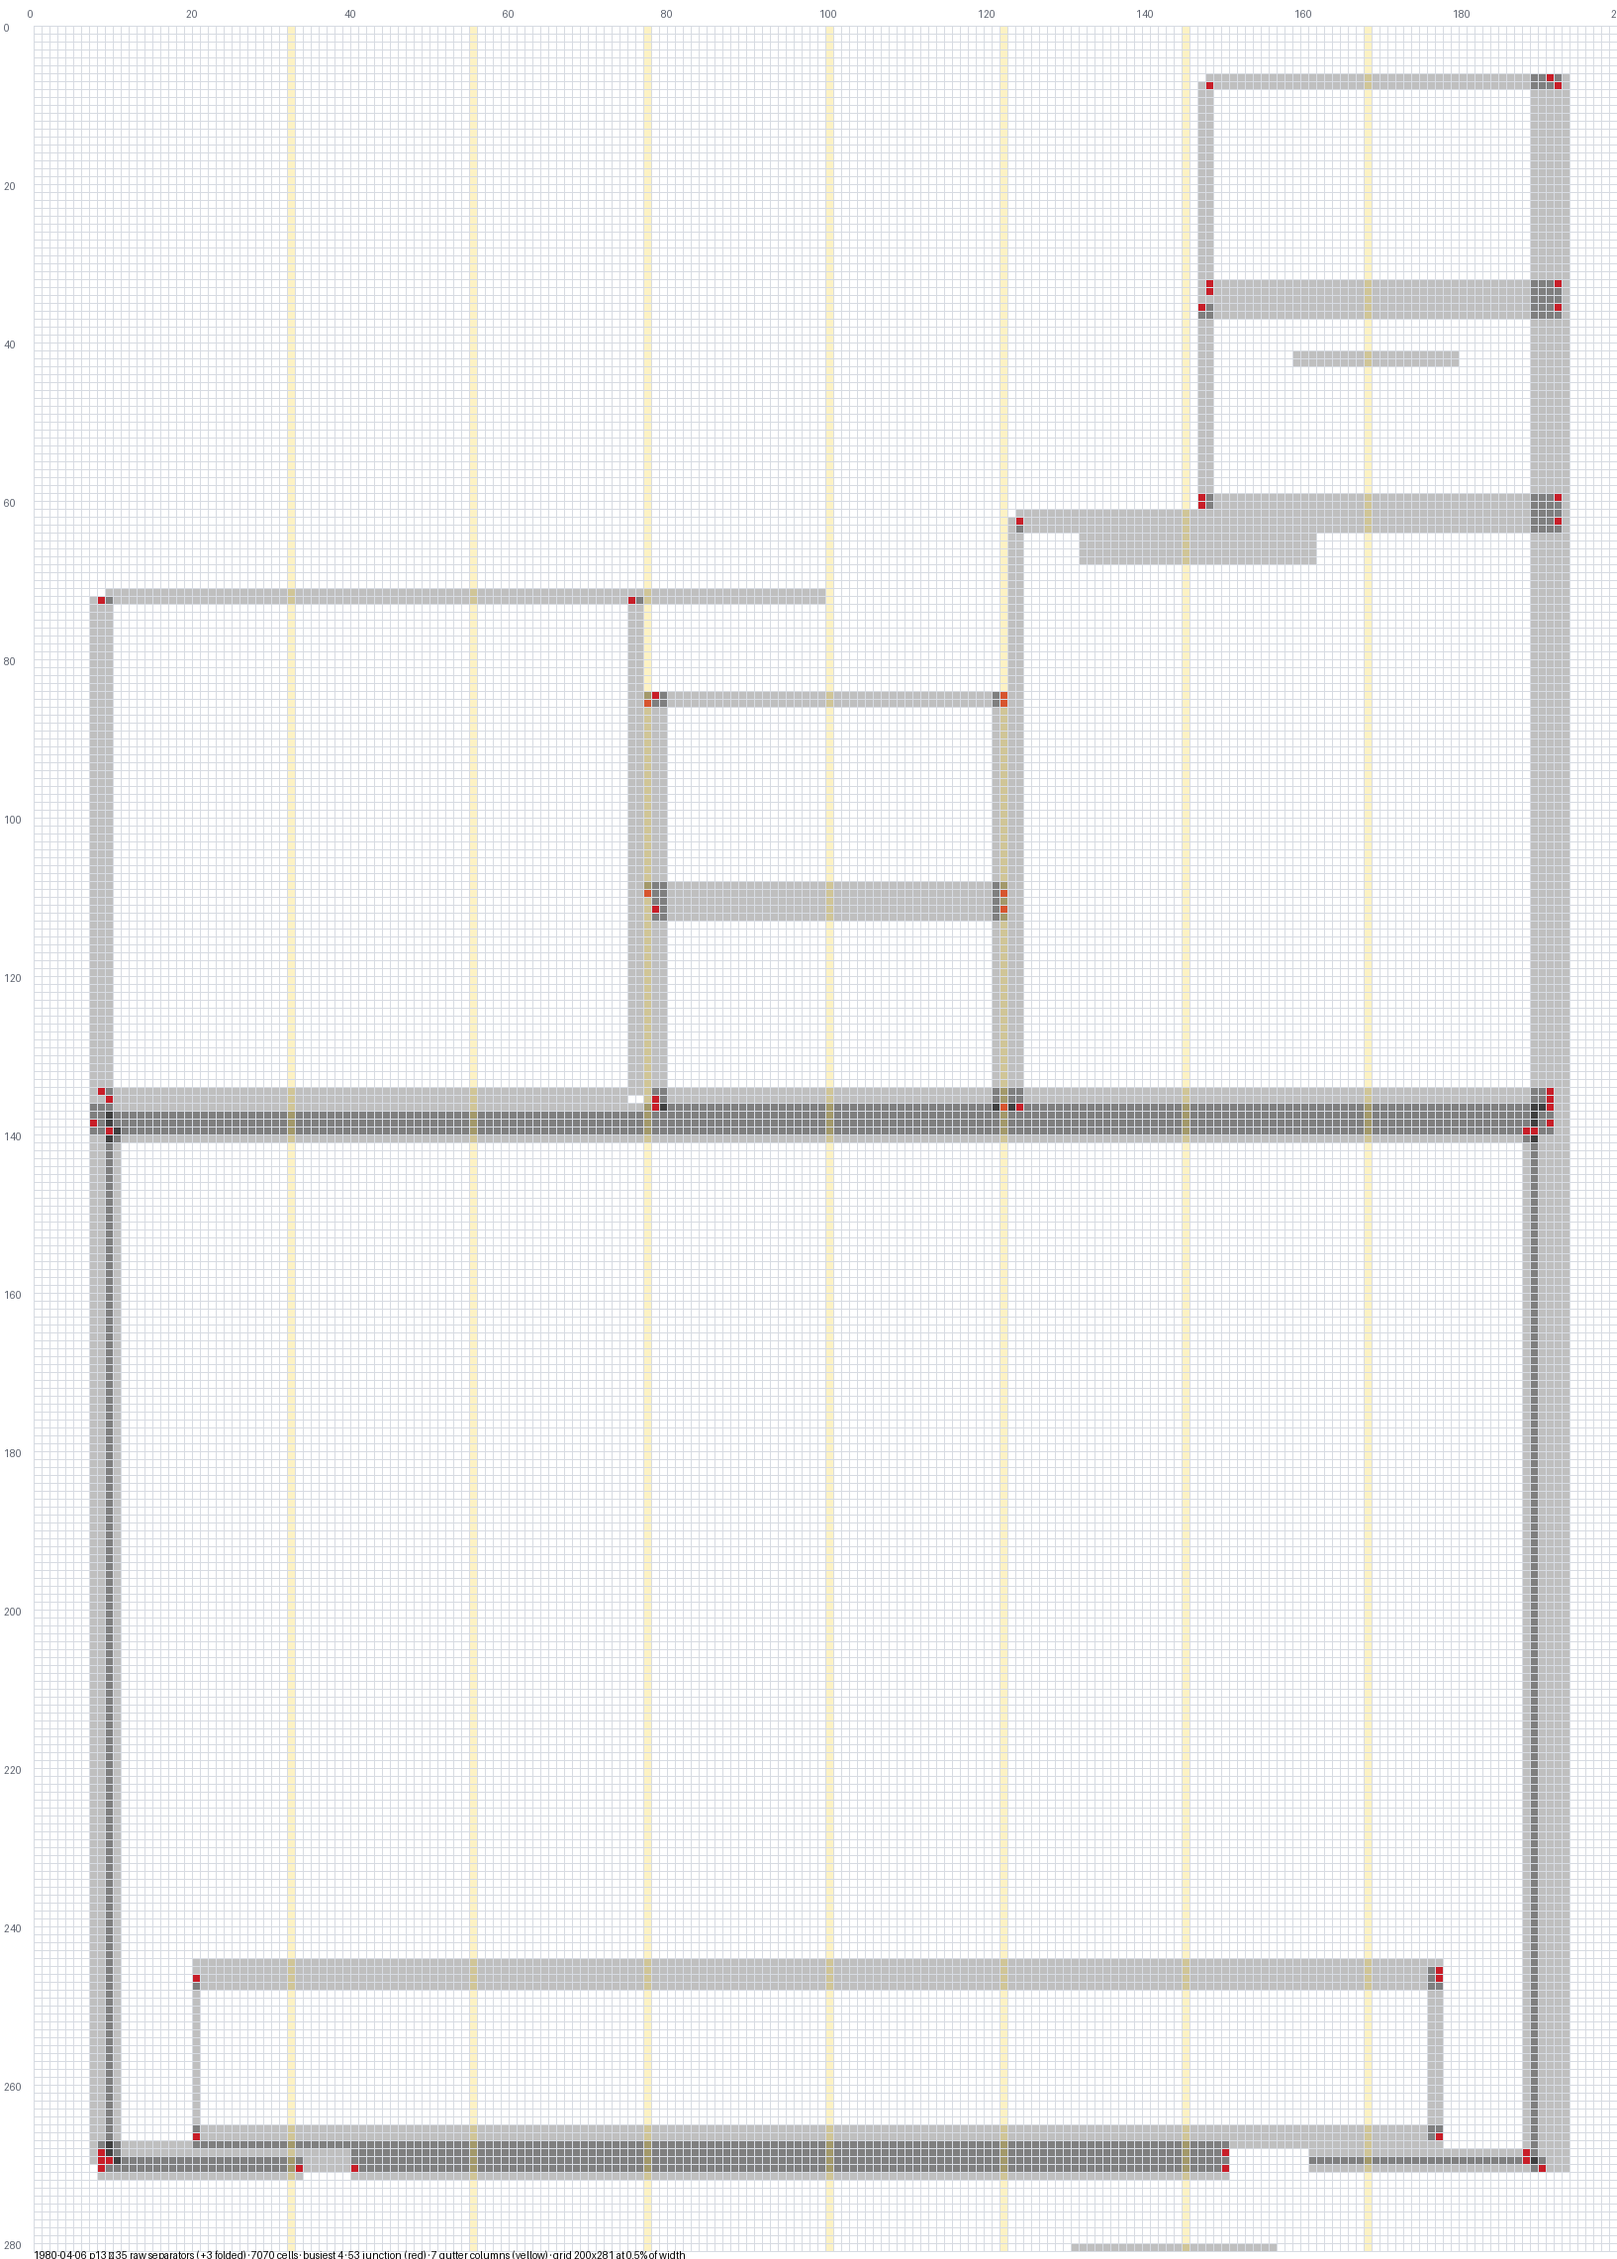
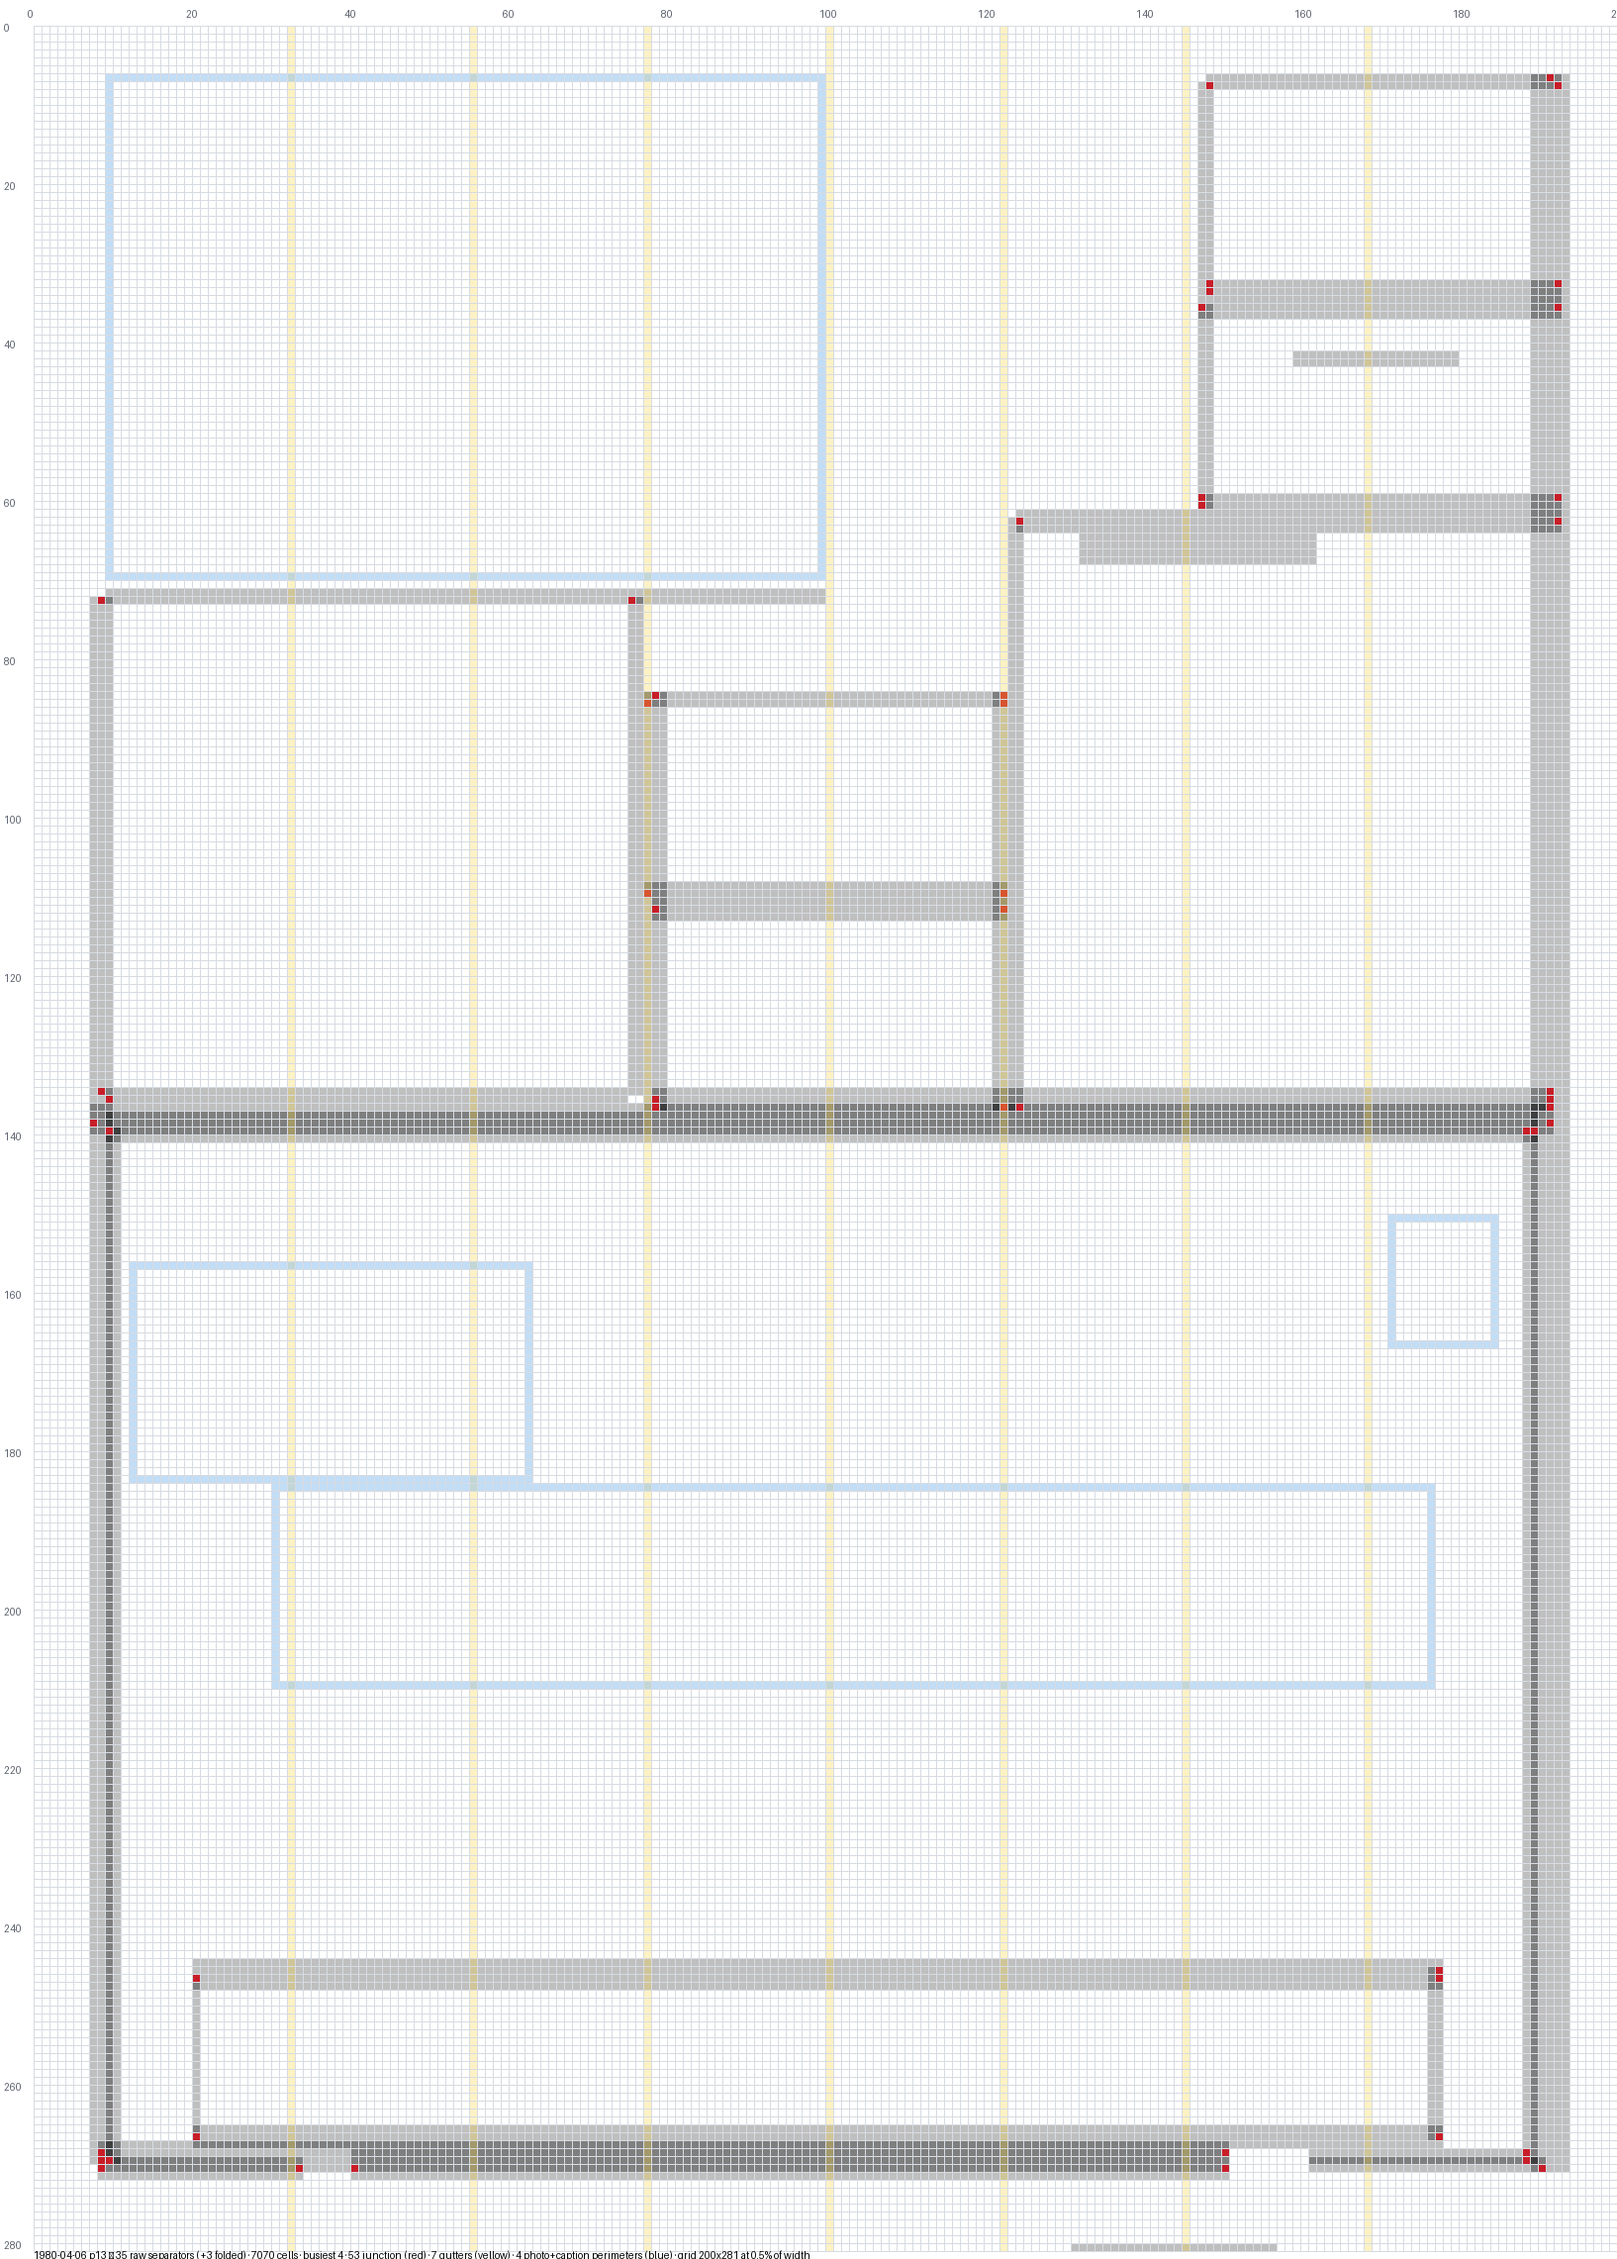
iiif: add "boxes + photos" to step 2; grid gains photo+caption perimeters
VIEWER. New "boxes + photos" option combining stage 2b and 2c into one
manifest, so ruled zones and photo units can be read against each other on
the same canvas instead of by switching layers. Both branches are reused
as-is by variant membership -- no duplicated annotation code.

GRID. Photo+caption units drawn as a light blue PERIMETER, not a filled
rectangle: this grid is a view of boundaries, and flooding the interiors
would bury the rules and junctions the rest of it is about. The unit is
the same encompassing rectangle stage 2c stores and the viewer draws --
photo plus caption, or just the photo where no caption was found -- so the
grid and the IIIF layer describe the same thing rather than two
near-identical things.

Like the gutter tint, the blue is BLENDED, so a rule or junction under a
photo perimeter stays visible.

1980-04-06 p3 makes the point: the photo feature page tiles almost
entirely with 9 photo+caption perimeters against only 7 separator regions
on the whole page.

Claude-Session: https://claude.ai/code/session_01FiL5RaDmQAWNR3gnQRCAgK

diff --git a/preview/scaled/iiif/viewer.html b/preview/scaled/iiif/viewer.html
@@ -102,6 +102,7 @@
       <option value="hlines">horizontals</option>
       <option value="boxes">boxed zones</option>
       <option value="captions">photos with captions</option>
+      <option value="boxphotos">boxes + photos</option>
     </optgroup>
     <!-- Not built yet. Shown disabled so the pipeline shape is visible
          without implying these exist. No single-option groups: these two

diff --git a/transcribe/scaled/experiments/separator_grid.py b/transcribe/scaled/experiments/separator_grid.py
@@ -33,6 +33,7 @@ from PIL import Image, ImageDraw
 
 from .. import _support as _sup
 from .. import detect_boxes as _boxes
+from .. import detect_captions as _captions
 
 OUT_DIR = os.path.join(_sup.REPO_ROOT, "preview", "scaled", "grids")
 
@@ -44,6 +45,8 @@ LABEL = (90, 96, 108)
 JUNCTION = (200, 30, 40)   # a separator END meeting another separator
 GUTTER = (250, 214, 60)    # column gutter CENTRE line, blended in
 GUTTER_MIX = 0.30          # how strongly the gutter tint shows through
+PHOTO = (120, 180, 235)    # photo + caption PERIMETER, blended in
+PHOTO_MIX = 0.45
 
 # Padding around the content area. Rules that RUN ALONG the content edge
 # (a box's outer border, the rule under a masthead) must survive, so the
@@ -124,6 +127,23 @@ def _gutter_centres(conn, page_id: str) -> list[float]:
             for i in range(len(cols) - 1)]
 
 
+def _photo_units(conn, page_id: str) -> list[tuple]:
+    """Encompassing rectangle per photo -- with its caption where found.
+
+    The same unit stage 2c stores and the viewer draws, so the grid and
+    the IIIF layer are describing the same thing.
+    """
+    out = []
+    for pr in _captions.detect(conn, page_id)["pairs"]:
+        p_, c = pr["photo"], pr["caption"]
+        L, T, R, B = p_["L"], p_["T"], p_["R"], p_["B"]
+        if c:
+            L, T = min(L, c["left_pct"]), min(T, c["top_pct"])
+            R, B = max(R, c["right_pct"]), max(B, c["bottom_pct"])
+        out.append((L, T, R, B))
+    return out
+
+
 def _ends(r: dict) -> list[tuple]:
     """The two end points of a separator."""
     if (r["R"] - r["L"]) >= (r["B"] - r["T"]):      # horizontal
@@ -196,15 +216,30 @@ def build(conn, page_id: str, clean: bool = False):
         if 0 <= cx < n_cols:
             gutter[cx] = True
 
-    return (counts, junction, gutter, n_cols, n_rows,
-            len(regions), len(swallowed))
+    # PERIMETER only, not the filled rectangle: this grid is a view of
+    # boundaries, and flooding the interior would bury the rules and
+    # junctions that the rest of it is about.
+    photo = [[False] * n_cols for _ in range(n_rows)]
+    units = _photo_units(conn, page_id)
+    for (L, T, R, B) in units:
+        c0 = max(0, min(n_cols - 1, int(L / CELL_PCT)))
+        c1 = max(0, min(n_cols - 1, int(R / CELL_PCT)))
+        r0 = max(0, min(n_rows - 1, int(T / cell_h_pct)))
+        r1 = max(0, min(n_rows - 1, int(B / cell_h_pct)))
+        for x in range(c0, c1 + 1):
+            photo[r0][x] = photo[r1][x] = True
+        for y in range(r0, r1 + 1):
+            photo[y][c0] = photo[y][c1] = True
+
+    return (counts, junction, gutter, photo, n_cols, n_rows,
+            len(regions), len(swallowed), len(units))
 
 
 def _blend(base: tuple, tint: tuple, amount: float) -> tuple:
     return tuple(int(b * (1 - amount) + t * amount) for b, t in zip(base, tint))
 
 
-def render(counts, junction, gutter, n_cols, n_rows,
+def render(counts, junction, gutter, photo, n_cols, n_rows,
            title: str, out_path: str) -> str:
     pad_l, pad_t, pad_b = 34, 26, 8
     W = pad_l + n_cols * CELL_PX
@@ -228,6 +263,8 @@ def render(counts, junction, gutter, n_cols, n_rows,
             # is the whole point of the overlay.
             if gutter[x]:
                 fill = _blend(fill or (255, 255, 255), GUTTER, GUTTER_MIX)
+            if photo[y][x]:
+                fill = _blend(fill or (255, 255, 255), PHOTO, PHOTO_MIX)
             if fill:
                 d.rectangle([x0, y0, x0 + CELL_PX, y0 + CELL_PX], fill=fill)
             d.rectangle([x0, y0, x0 + CELL_PX, y0 + CELL_PX],
@@ -255,19 +292,21 @@ def _cmd(args):
         if not row:
             print("no such page")
             return
-        counts, junc, gut, nc, nr, n, folded = build(conn, row["id"], args.clean)
+        (counts, junc, gut, photo, nc, nr,
+         n, folded, nphoto) = build(conn, row["id"], args.clean)
         busiest = max(max(r) for r in counts)
         cells = sum(1 for r in counts for v in r if v)
         njunc = sum(1 for r in junc for v in r if v)
         kind = "cleaned" if args.clean else "raw"
         title = (f"{args.date} p{args.page} — {n} {kind} separators "
                  f"(+{folded} folded) · {cells} cells · busiest {busiest} "
-                 f"· {njunc} junction (red) · {sum(gut)} gutter columns "
-                 f"(yellow) · grid {nc}x{nr} at {CELL_PCT}% of width")
+                 f"· {njunc} junction (red) · {sum(gut)} gutters (yellow) "
+                 f"· {nphoto} photo+caption perimeters (blue) "
+                 f"· grid {nc}x{nr} at {CELL_PCT}% of width")
         suffix = "_clean" if args.clean else ""
         out = os.path.join(OUT_DIR, args.date,
                            f"p{args.page}_sepgrid{suffix}.png")
-        print(" ", render(counts, junc, gut, nc, nr, title, out))
+        print(" ", render(counts, junc, gut, photo, nc, nr, title, out))
         print(f"  {n} regions kept, {folded} folded as contained, "
               f"{cells} cells touched, busiest {busiest}, {njunc} junctions")
     finally:

diff --git a/transcribe/scaled/build_iiif.py b/transcribe/scaled/build_iiif.py
@@ -125,7 +125,8 @@ VARIANTS = {
 # the pipeline: Tesseract (raw) -> Columns -> Items -> Refined. Items and
 # Refined are not built yet; the viewer shows them disabled rather than
 # pretending they exist.
-DERIVED = ("grid", "hlines", "boxes", "captions", "separators", "photos")
+DERIVED = ("grid", "hlines", "boxes", "captions", "boxphotos",
+           "separators", "photos")
 
 
 def _derived_layers(conn, page_id, cid, W, H, variant):
@@ -159,7 +160,7 @@ def _derived_layers(conn, page_id, cid, W, H, variant):
         if res.get("low_evidence"):
             label += f" · LOW EVIDENCE ({res['n_lines']} text lines)"
         out.append((label, boxes))
-    if variant == "captions":
+    if variant in ("captions", "boxphotos"):
         # ONE layer: the encompassing rectangle per photo -- photo plus
         # its caption, or just the photo where no caption was found. A
         # photo and its caption are one editorial unit, and drawing the
@@ -257,7 +258,7 @@ def _derived_layers(conn, page_id, cid, W, H, variant):
                            f"{thick or '?'}px thick"))
             out.append((f"{label} ({len(boxes)})", boxes))
 
-    if variant == "boxes":
+    if variant in ("boxes", "boxphotos"):
         # Ruled rectangles. Tiered by how many sides were actually found:
         # 4-sided boxes are near-perfect by eye, 2-sided ones are where
         # Tesseract only reported a top and bottom rule. Both are kept --
@@ -472,6 +473,7 @@ def build_manifest(conn, date: str, base: str, variant: str = "all") -> dict:
             "separators": "stage 1: raw ocr_separator rules",
             "photos": "stage 1: raw ocr_photo regions",
             "captions": "stage 2c: photos with captions",
+            "boxphotos": "stage 2b+2c: boxed zones and photos with captions",
         }.get(variant, variant)]},
         "summary": {"en": [
             "Unmodified Tesseract hOCR rendered as IIIF annotation layers, "
